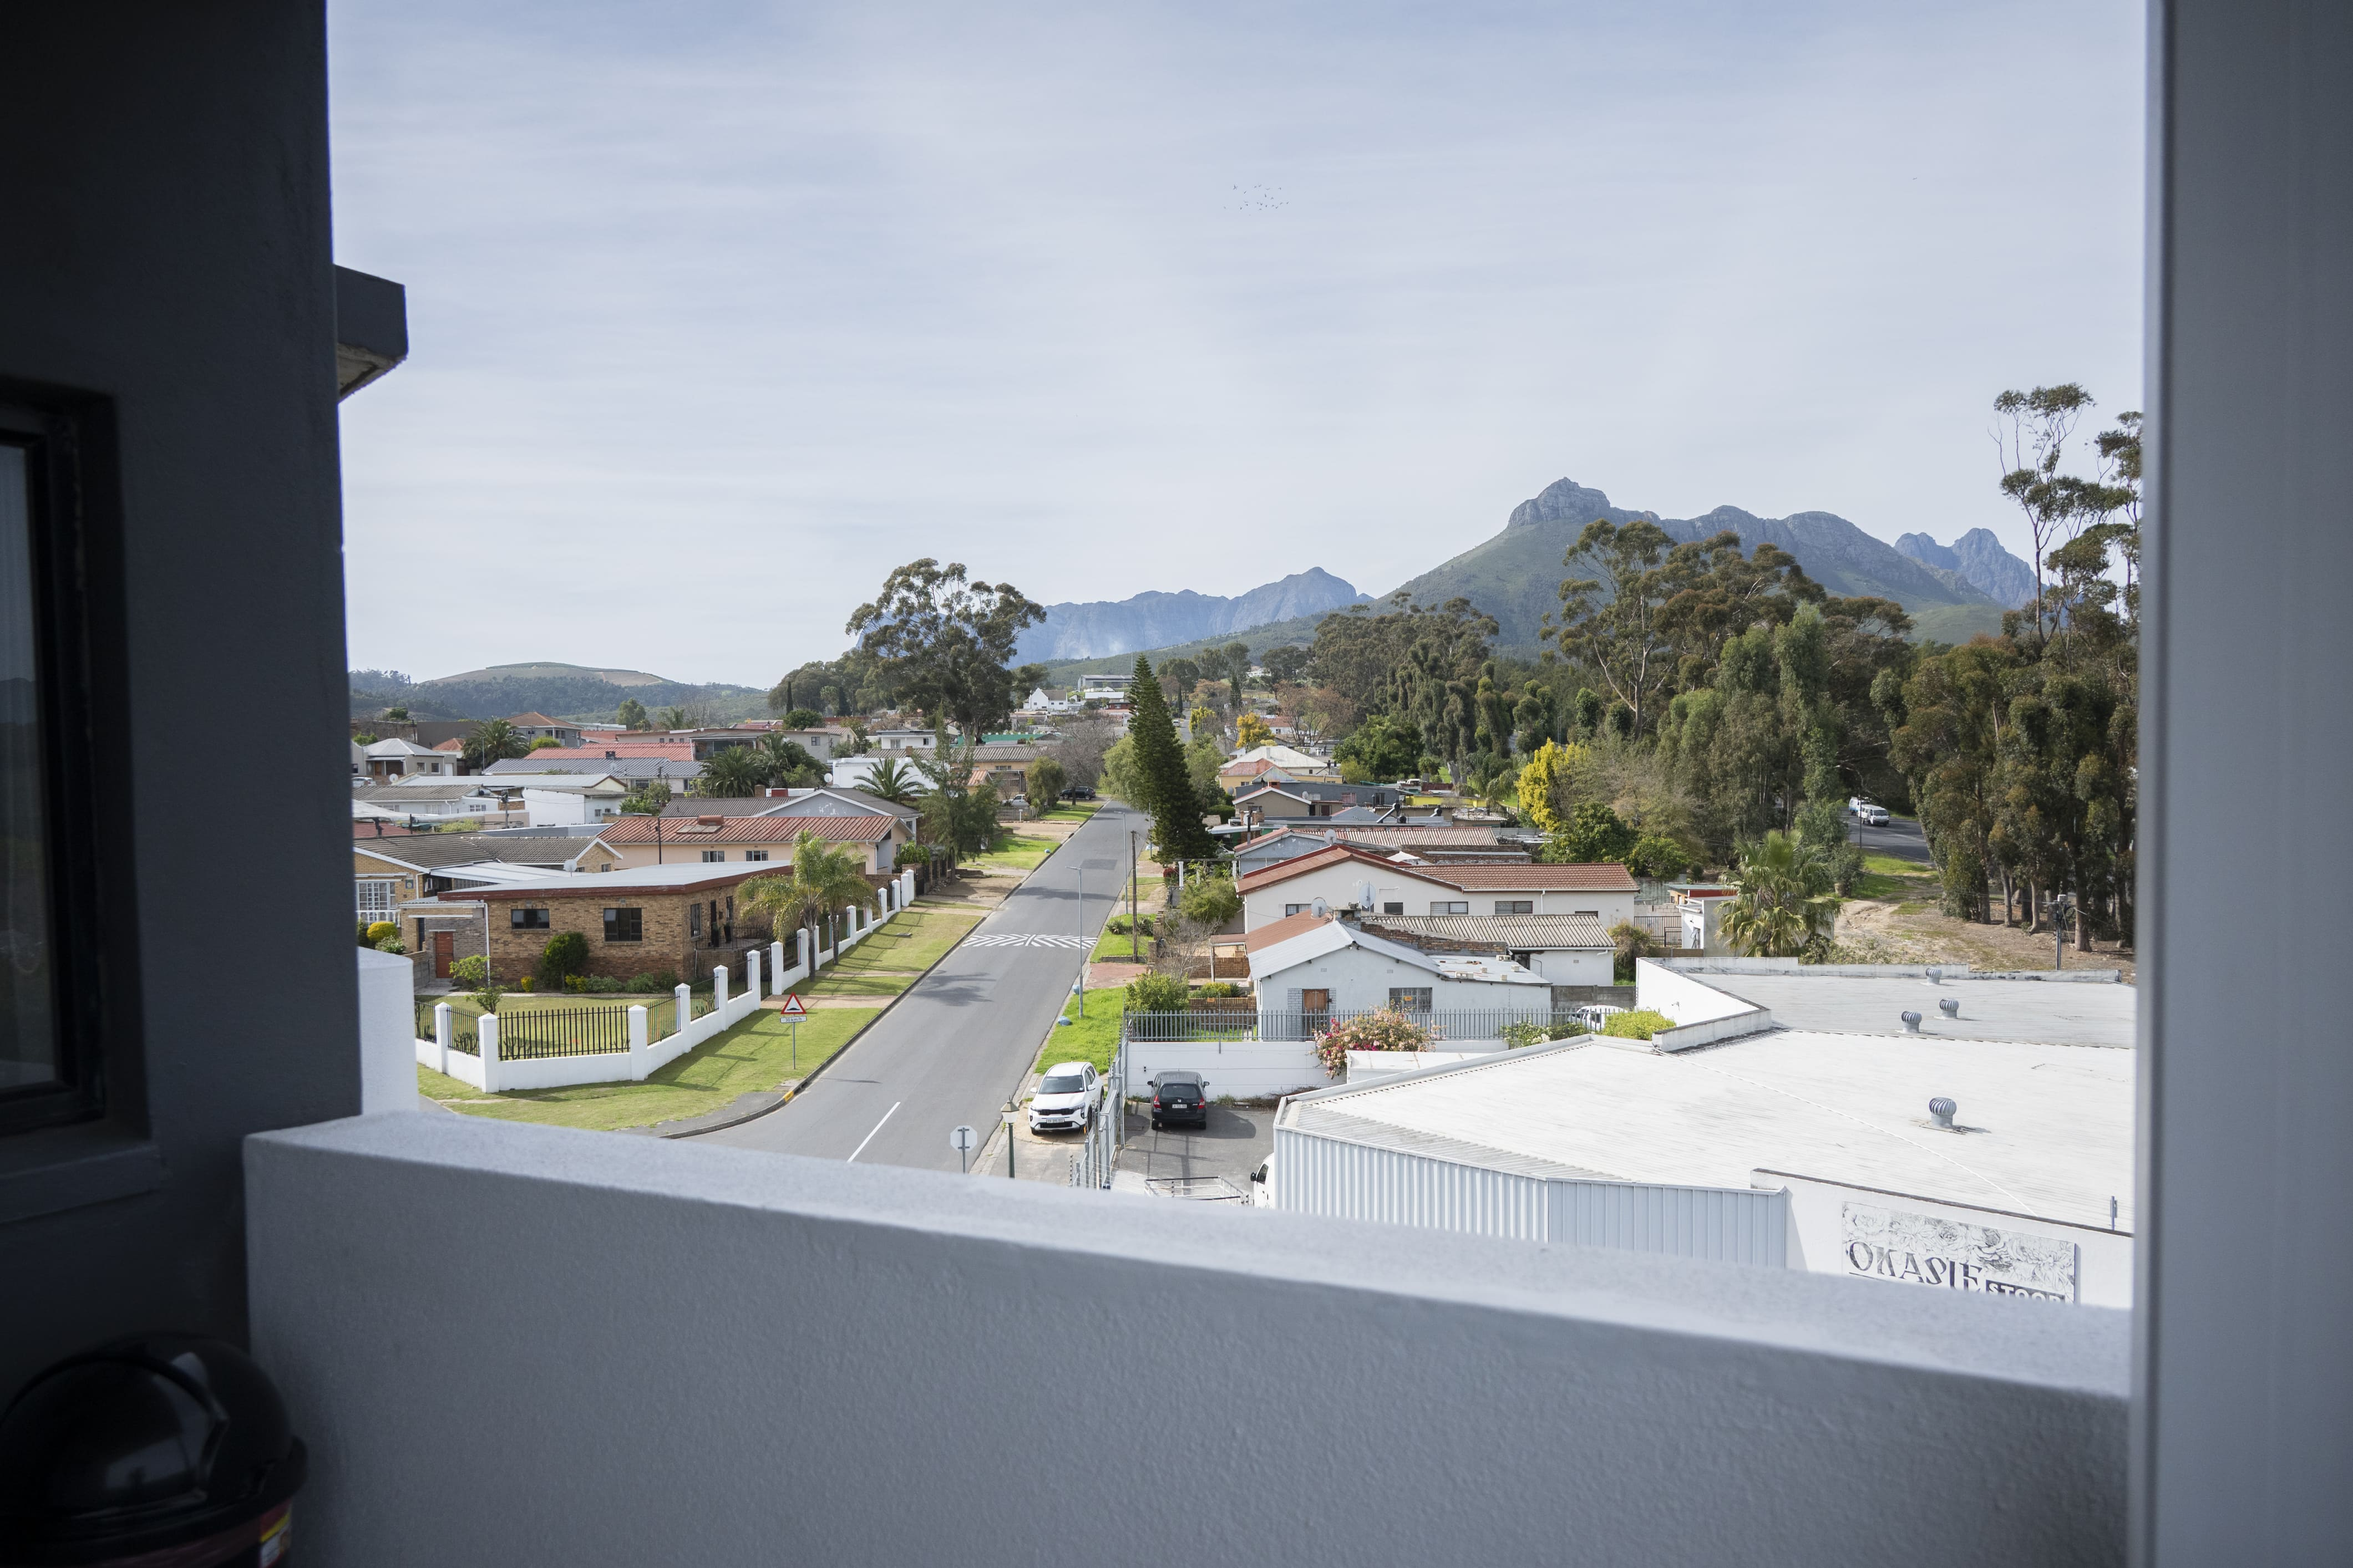
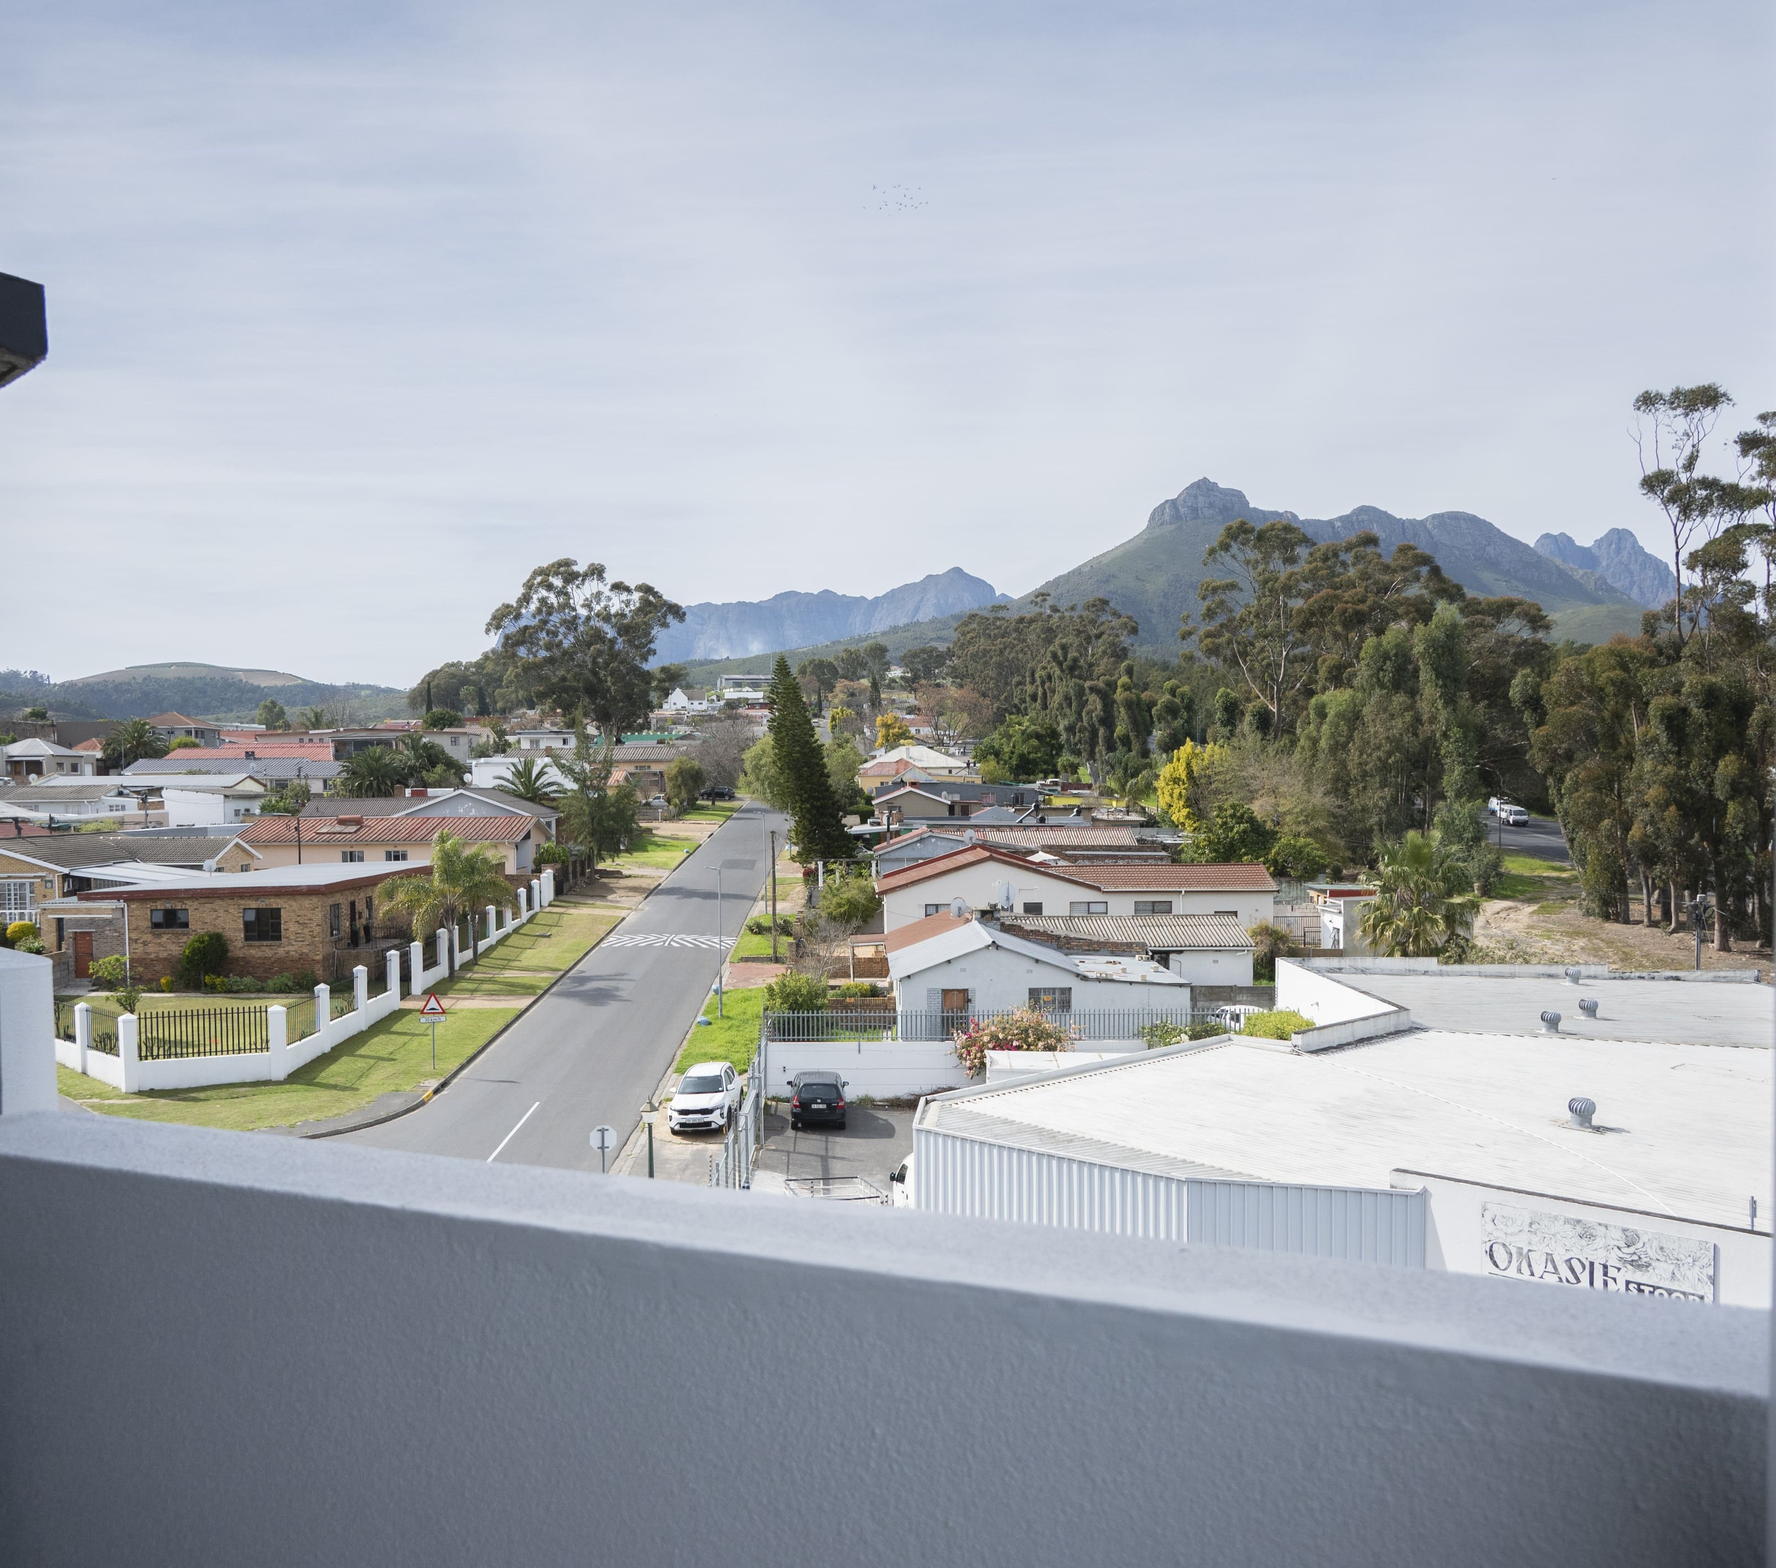
updated gallery heading and image locations

diff --git a/src/pages/public/GalleryPage.vue b/src/pages/public/GalleryPage.vue
@@ -121,21 +121,21 @@ export default {
 
   data() {
     return {
-      activeSection: "Exterior",
+      activeSection: "The Building",
       activeSubsection: null,
-      expandedSection: "Exterior",
+      expandedSection: "The Building",
 
       showImageDialog: false,
       currentDialogImageUrl: "",
 
       sections: [
         {
-          title: "Exterior",
+          title: "The Building",
           images: [
+            "/assets/gallery/exterior identity/ei4.jpg",
             "/assets/gallery/exterior identity/ei1.jpg",
             "/assets/gallery/exterior identity/ei2.jpg",
             "/assets/gallery/exterior identity/ei3.jpg",
-            "/assets/gallery/exterior identity/ei4.jpg",
             "/assets/gallery/exterior identity/ei5.jpg",
           ],
           subsections: [
@@ -149,14 +149,18 @@ export default {
           ],
         },
         {
-          title: "Shared Living & Kitchen",
+          title: "Shared Living",
           images: [
+            "/assets/gallery/shared living + kitchen/slk6.jpg",
+            "/assets/gallery/open plan living/opl3.jpg",
             "/assets/gallery/shared living + kitchen/slk1.jpg",
             "/assets/gallery/shared living + kitchen/slk2.jpg",
             "/assets/gallery/shared living + kitchen/slk3.jpg",
-            "/assets/gallery/shared living + kitchen/slk4.jpg",
+            // "/assets/gallery/shared living + kitchen/slk4.jpg",
             "/assets/gallery/shared living + kitchen/slk5.jpg",
-            "/assets/gallery/shared living + kitchen/slk6.jpg",
+            "/assets/gallery/open plan living/opl2.jpg",
+            "/assets/gallery/open plan living/opl4.jpg",
+            "/assets/gallery/open plan living/opl5.jpg",
           ],
           subsections: [
             {
@@ -178,7 +182,7 @@ export default {
           ],
         },
         {
-          title: "Private Room",
+          title: "Private Rooms",
           images: [
             "/assets/gallery/private room + study/prs1.jpg",
             "/assets/gallery/private room + study/prs2.jpg",
@@ -186,8 +190,8 @@ export default {
             "/assets/gallery/private room + study/prs4.jpg",
             "/assets/gallery/private room + study/prs5.jpg",
             "/assets/gallery/wardrobe capacity/wc1.jpg",
-            "/assets/gallery/wardrobe capacity/wc2.jpg",
-            "/assets/gallery/wardrobe capacity/wc3.jpg",
+            // "/assets/gallery/wardrobe capacity/wc2.jpg",
+            // "/assets/gallery/wardrobe capacity/wc3.jpg",
           ],
           subsections: [
             {
@@ -209,13 +213,9 @@ export default {
           ],
         },
         {
-          title: "Open-plan Living",
+          title: "Study Spaces",
           images: [
             "/assets/gallery/open plan living/opl1.jpg",
-            "/assets/gallery/open plan living/opl2.jpg",
-            "/assets/gallery/open plan living/opl3.jpg",
-            "/assets/gallery/open plan living/opl4.jpg",
-            "/assets/gallery/open plan living/opl5.jpg",
           ],
           subsections: [
             {
@@ -229,13 +229,18 @@ export default {
           ],
         },
         {
-          title: "Rooftop & Mountain",
+          title: "Rooftop Views",
           images: [
-            "/assets/gallery/rooftop + mountain/rtm1.jpg",
             "/assets/gallery/rooftop + mountain/rtm2.jpg",
-            // "/assets/gallery/rooftop + mountain/rtm3.jpg",
             "/assets/gallery/rooftop + mountain/rtm4.jpg",
+            "/assets/gallery/rooftop + mountain/rtm1.jpg",
+            // "/assets/gallery/rooftop + mountain/rtm3.jpg",
             "/assets/gallery/rooftop + mountain/rtm5.jpg",
+            "/assets/gallery/mountain location/ml1.jpg",
+            // "/assets/gallery/mountain location/ml2.jpg",
+            "/assets/gallery/mountain location/ml3.jpg",
+            "/assets/gallery/mountain location/ml4.jpg",
+            // "/assets/gallery/mountain location/ml5.jpg",
           ],
           subsections: [
             {
@@ -256,19 +261,19 @@ export default {
             "/assets/gallery/pool/p1.jpg",
             "/assets/gallery/pool/p2.jpg",
             "/assets/gallery/pool/p3.jpg",
-            "/assets/gallery/pool/p4.jpg",
+            // "/assets/gallery/pool/p4.jpg",
           ],
           subsections: [],
         },
 
         {
-          title: "Bathroom",
+          title: "Bathrooms",
           images: [
+            "/assets/gallery/rest room/rr4.jpg",
             "/assets/gallery/rest room/rr1.jpg",
             "/assets/gallery/rest room/rr2.jpg",
-            "/assets/gallery/rest room/rr3.jpg",
-            "/assets/gallery/rest room/rr4.jpg",
-            "/assets/gallery/rest room/rr5.jpg",
+            // "/assets/gallery/rest room/rr3.jpg",
+            // "/assets/gallery/rest room/rr5.jpg",
           ],
           subsections: [
             {
@@ -291,14 +296,14 @@ export default {
         {
           title: "Laundry",
           images: [
-            "/assets/gallery/laundry/l1.jpg",
-            "/assets/gallery/laundry/l2.jpg",
             "/assets/gallery/laundry/l3.jpg",
+            "/assets/gallery/laundry/l1.jpg",
+            // "/assets/gallery/laundry/l2.jpg",
           ],
           subsections: [],
         },
         {
-          title: "Biometric Security",
+          title: "Security",
           images: [
             "/assets/gallery/biometric security/bs1.jpg",
             "/assets/gallery/biometric security/bs2.jpg",
@@ -306,40 +311,40 @@ export default {
           subsections: [],
         },
         {
-          title: "Solar Array",
+          title: "Solar Energy",
           images: [
             "/assets/gallery/solar array/sa1.jpg",
-            "/assets/gallery/solar array/sa2.jpg",
+            // "/assets/gallery/solar array/sa2.jpg",
           ],
           subsections: [],
         },
-        {
-          title: "Location",
-          images: [
-            "/assets/gallery/mountain location/ml1.jpg",
-            // "/assets/gallery/mountain location/ml2.jpg",
-            "/assets/gallery/mountain location/ml3.jpg",
-            "/assets/gallery/mountain location/ml4.jpg",
-            "/assets/gallery/mountain location/ml5.jpg",
-          ],
-          subsections: [
-            {
-              title: "Balcony view",
-              images: [
-                "/assets/gallery/mountain location/ml1.jpg",
-                // "/assets/gallery/mountain location/ml2.jpg",
-              ],
-            },
-            {
-              title: "Neighbourhood view",
-              images: [
-                "/assets/gallery/mountain location/ml3.jpg",
-                "/assets/gallery/mountain location/ml4.jpg",
-                "/assets/gallery/mountain location/ml5.jpg",
-              ],
-            },
-          ],
-        },
+        // {
+        //   title: "Location",
+        //   images: [
+        //     "/assets/gallery/mountain location/ml1.jpg",
+        //     // "/assets/gallery/mountain location/ml2.jpg",
+        //     "/assets/gallery/mountain location/ml3.jpg",
+        //     "/assets/gallery/mountain location/ml4.jpg",
+        //     "/assets/gallery/mountain location/ml5.jpg",
+        //   ],
+        //   subsections: [
+        //     {
+        //       title: "Balcony view",
+        //       images: [
+        //         "/assets/gallery/mountain location/ml1.jpg",
+        //         // "/assets/gallery/mountain location/ml2.jpg",
+        //       ],
+        //     },
+        //     {
+        //       title: "Neighbourhood view",
+        //       images: [
+        //         "/assets/gallery/mountain location/ml3.jpg",
+        //         "/assets/gallery/mountain location/ml4.jpg",
+        //         "/assets/gallery/mountain location/ml5.jpg",
+        //       ],
+        //     },
+        //   ],
+        // },
         // {
         //   title: "Wardrobe capacity",
         //   images: [
@@ -916,4 +921,10 @@ export default {
     font-size: 28px;
   }
 }
+
+.image-card img[src*="ei5.jpg"] {
+  object-position: center top;
+}
+
+
 </style>
